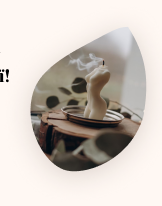
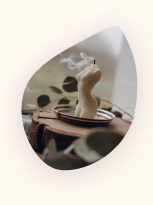
add @media 360px

diff --git a/index.html b/index.html
@@ -60,7 +60,8 @@
                <button class="buy__btn">Купити</button>
             </div>
             <picture class="top__img">
-               <source srcset="images/top-m.png" media="(max-width:481px)">
+               <source srcset="images/top-s.png" media="(max-width:360px)">
+               <source srcset="images/top-m.png" media="(max-width:480px)">
                <img class="top__img-l" src="images/top-l.png" alt="">
             </picture>
          </div>

diff --git a/css/style.css b/css/style.css
@@ -321,3 +321,25 @@ button{
       padding: 30px 0 50px;
    }
 }
+
+@media (max-width:360px){
+   .top__img-l{
+      width: 155px;
+   }
+   .top__img{
+      left: auto;
+      right: -29px;
+      top: -15px;
+   }
+   .top__content{
+      width: 203px;
+      padding: 20px 0 0;
+   }
+   .top__title{
+      font-size: 18px;
+   }
+   .top__text{
+      font-size: 10px;
+      width: 197px;
+   }
+}
